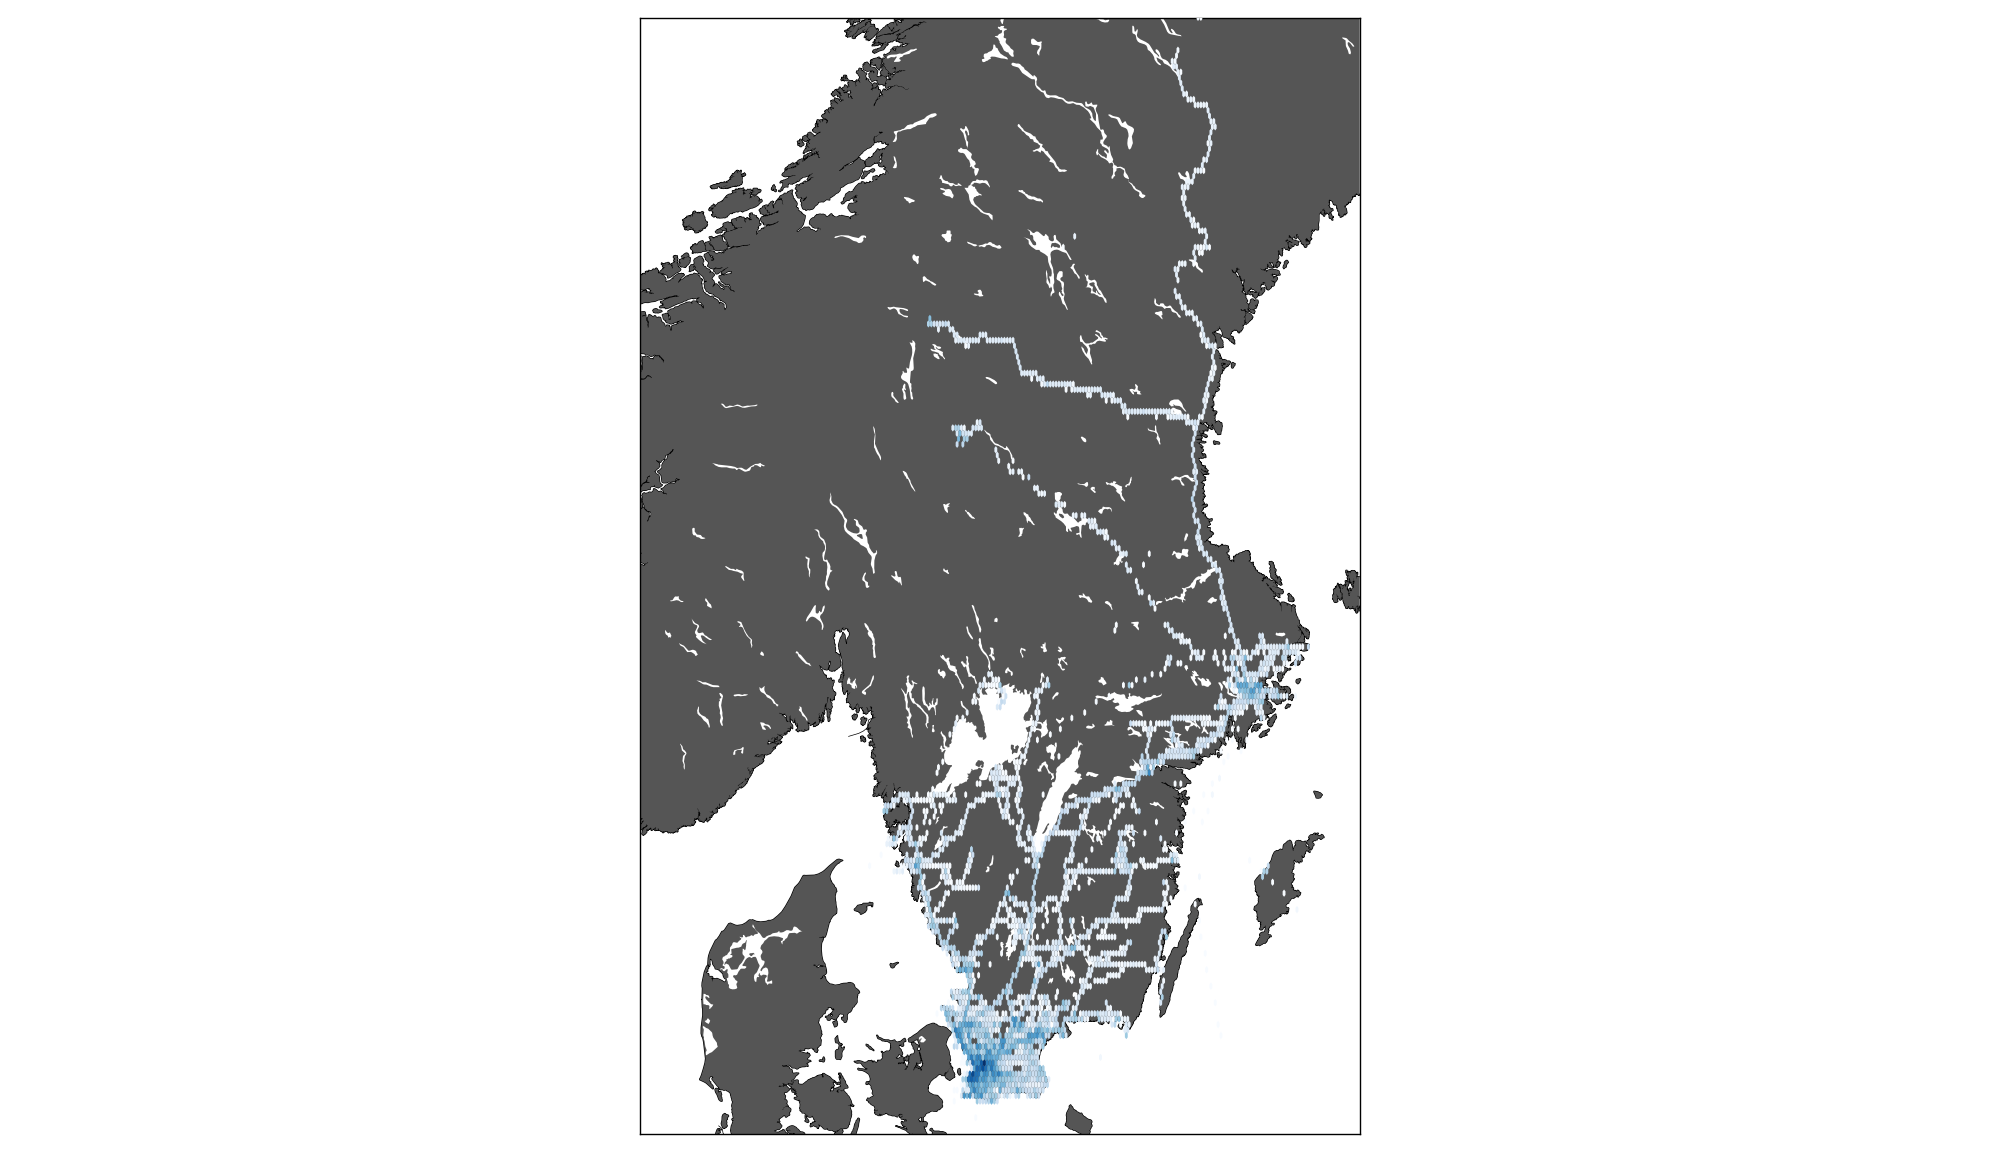
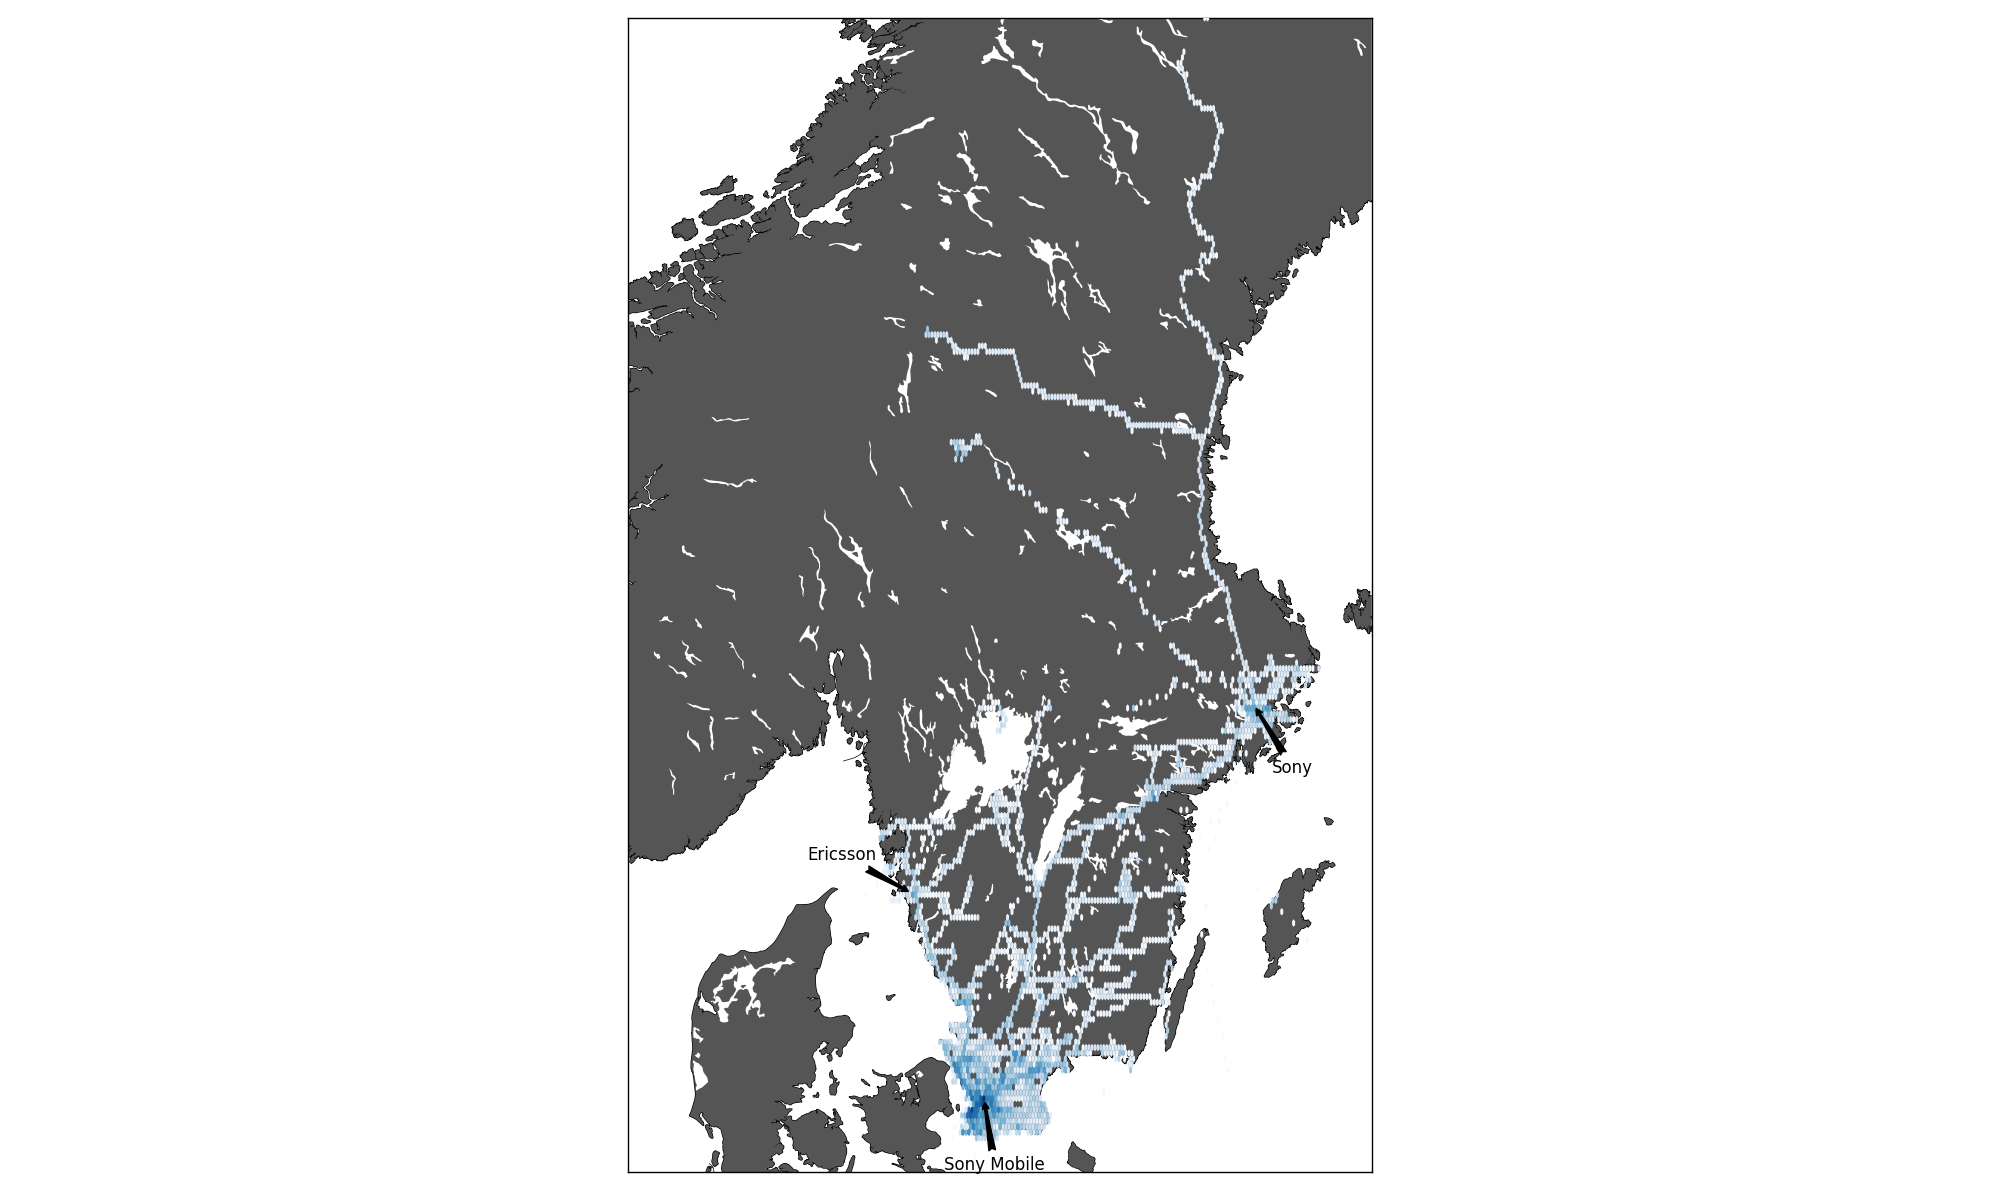
all locations updated

diff --git a/tools/scripts/plot_all_locations.py b/tools/scripts/plot_all_locations.py
@@ -11,7 +11,7 @@ import numpy as np
 
 boundaries = {"Sweden":[7, 20, 55, 65], "Japan":[125, 150, 30, 45]}
 gridsizes = {"Sweden":250, "Japan":1000}
-country = "Sweden"
+country = "Japan"
 
 db = DatabaseHelper()
 locations = db.get_locations_by_country_only(country)
@@ -31,8 +31,26 @@ m.drawcountries(zorder=0)
 m.fillcontinents(color='#555555', zorder=0)
 m.drawmapboundary(zorder=0)
 x, y = m([l[0] for l in locations], [l[1] for l in locations])
-#m.plot(x, y, "bo", markersize=5, alpha=0.1, zorder=1)
+
 m.hexbin(np.array(x), np.array(y), gridsize=gridsizes[country], bins="log", lw=0.2, alpha=1., mincnt=1, edgecolor="none", cmap=plt.get_cmap("Blues"))
-#m.readshapefile("shapefiles/Distrikt_v1", "Distrikt_v1")
+if country == "Sweden":
+    mob_coords = (13.2236973, 55.7172633)
+    ericsson_coords = (11.9387722, 57.70585)
+    sony_coords = (17.9535443, 59.4066036)
+    x, y = m(mob_coords[0], mob_coords[1])
+    x2, y2 = m(mob_coords[0]-0.7, mob_coords[1]-0.7)
+    plt.annotate("Sony Mobile", xy=(x, y), xytext=(x2, y2), xycoords='data', textcoords='data', arrowprops=dict(arrowstyle="fancy", color='k'))
+    x, y = m(ericsson_coords[0], ericsson_coords[1])
+    x2, y2 = m(ericsson_coords[0]-1.8, ericsson_coords[1]+0.3)
+    plt.annotate("Ericsson", xy=(x, y), xytext=(x2, y2), xycoords='data', textcoords='data', arrowprops=dict(arrowstyle="fancy", color='k'))
+    x, y = m(sony_coords[0], sony_coords[1])
+    x2, y2 = m(sony_coords[0]+0.3, sony_coords[1]-0.6)
+    plt.annotate("Sony", xy=(x, y), xytext=(x2, y2), xycoords='data', textcoords='data', arrowprops=dict(arrowstyle="fancy", color='k'))
+elif country == "Japan":
+    sony_coords = (139.7609281, 35.6721699)
+    x, y = m(sony_coords[0], sony_coords[1])
+    x2, y2 = m(sony_coords[0]+1.5, sony_coords[1]-1.5)
+    plt.annotate("Sony", xy=(x, y), xytext=(x2, y2), xycoords='data', textcoords='data', arrowprops=dict(arrowstyle="fancy", color='k'))
+
 plt.tight_layout()
 plt.show()
